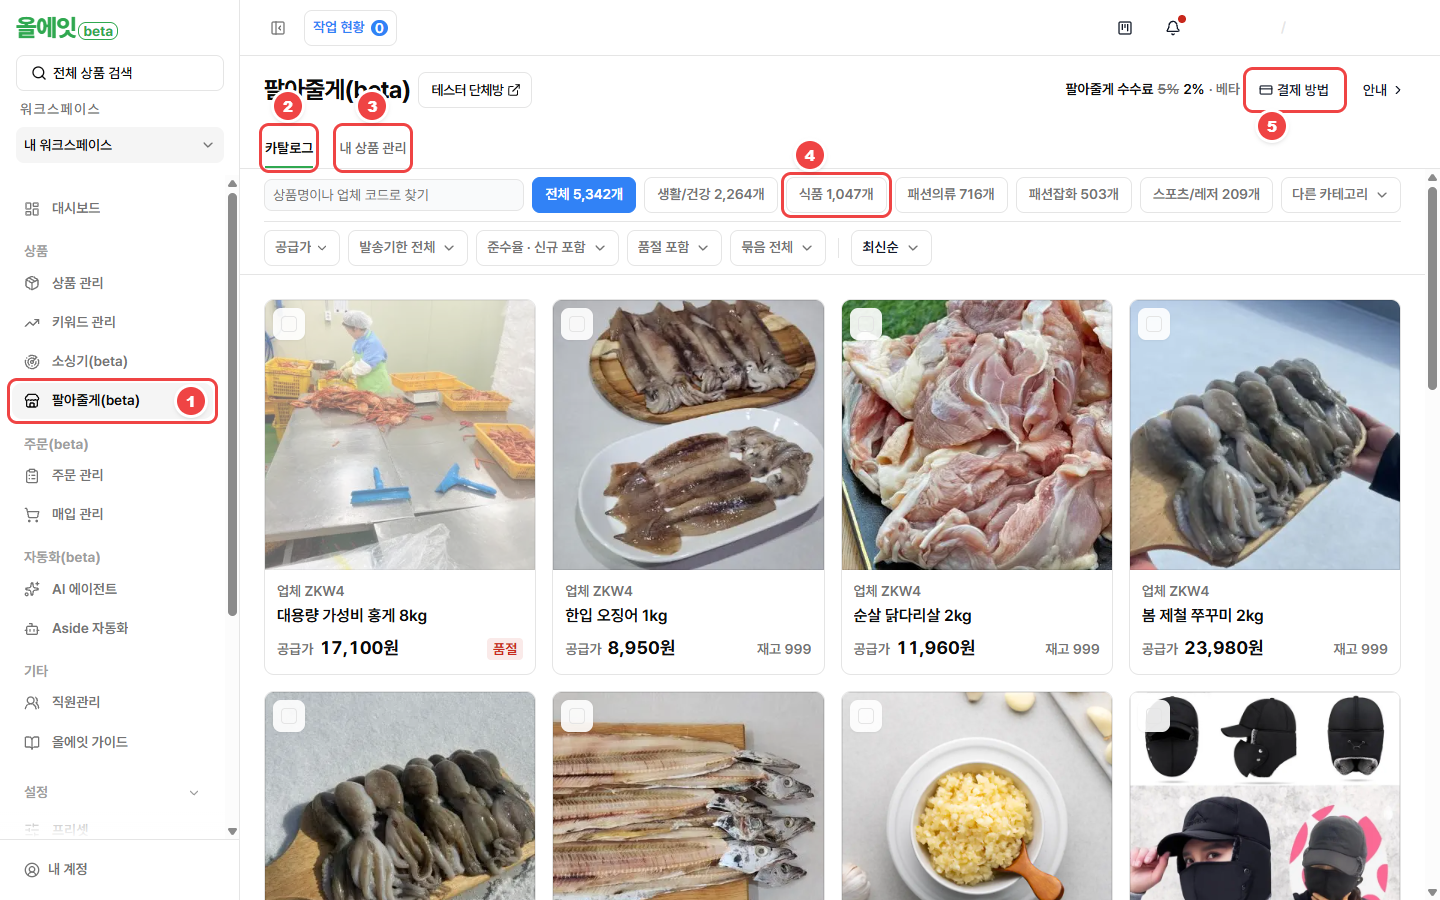
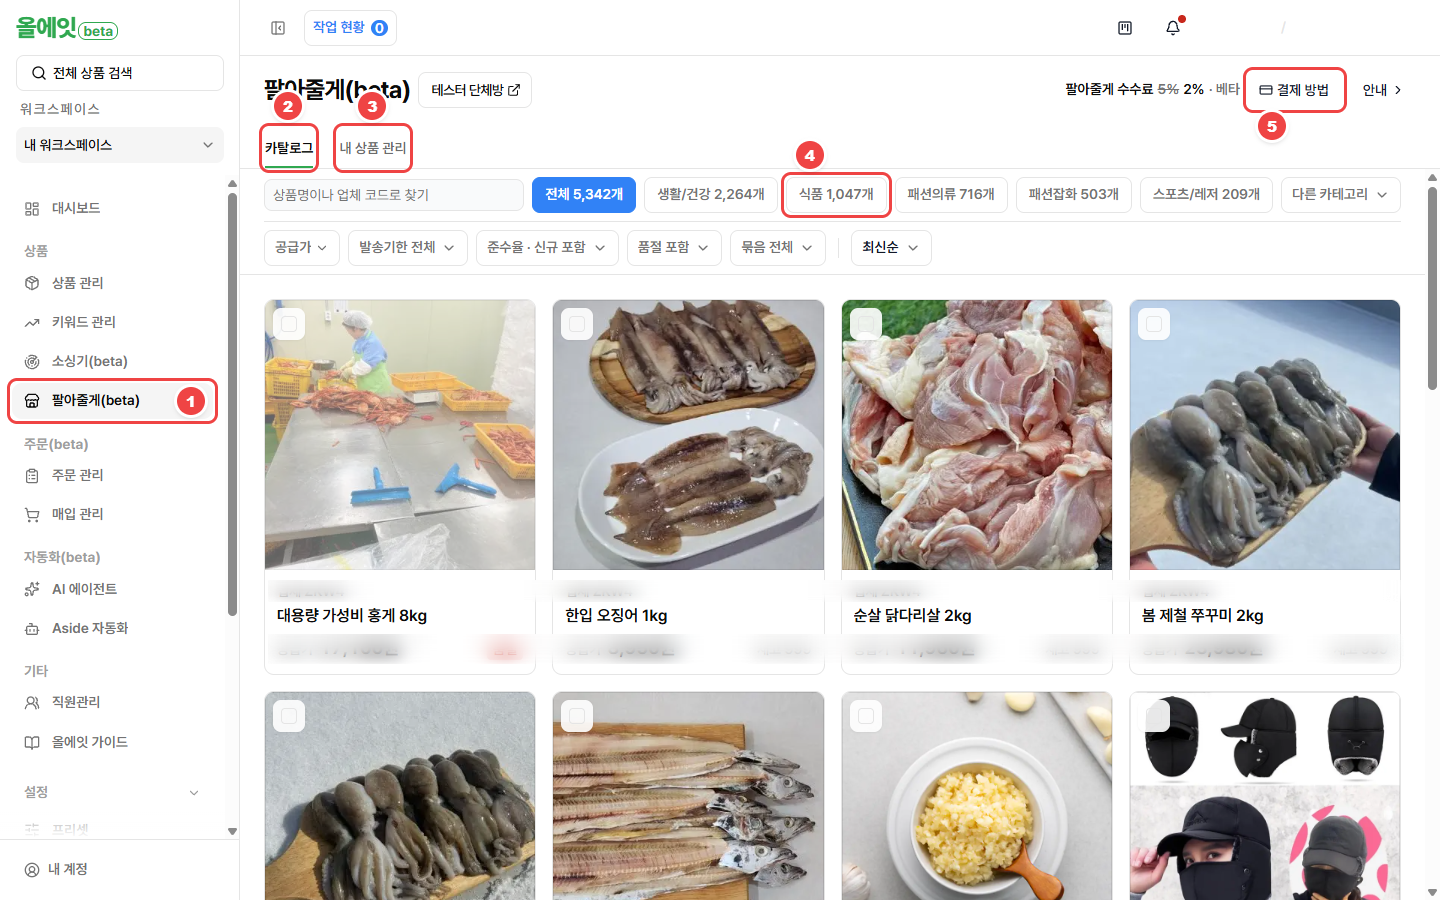
docs: 라쿠텐 랭킹 수집 체크박스 캡처 추가, 상품 관리·팔아줄게 캡처의 가격 칸 가림

diff --git a/manual.html b/manual.html
@@ -3371,7 +3371,8 @@ mark{background:#fef08a;color:var(--ink);border-radius:3px;padding:0 2px;}
         <h4>🆕 수집기에 새로 생긴 것 세 가지</h4>
         <div class="upd-sub">2026년 10월 수집기 업데이트 기준 · 수집기를 최신으로 업데이트해야 보여요</div>
         <p>목록 화면에서 한꺼번에 고를 때 쓰는 기능들이에요.</p>
-        <ol class="upd-steps">
+        <figure class="upd-fig"><img src="img/upd-collect-rakuten.png" alt="라쿠텐 랭킹의 수집 체크박스" loading="lazy" onclick="openLightbox(this.src)"><figcaption>라쿠텐 랭킹 화면. 1 상품 사진 위에 수집 체크박스가 나와요 (누르면 크게 보여요)</figcaption></figure>
+<ol class="upd-steps">
           <li><b class="n">1</b><span><strong>상품 체크박스 숨기기 / 보이기</strong>. 목록 화면의 상품 사진 위에 수집 체크박스가 뜨는데, 사진이 가려 보이지 않을 때가 있죠? 수집기 패널의 <strong>현재 페이지</strong> 칸에 눈 모양 버튼이 있어요. "상품 체크박스 숨기기"를 누르면 체크박스가 가려지고, "상품 체크박스 보이기"를 누르면 다시 나와요. 숨겨도 이미 고른 상품은 그대로 유지돼요. 숨김은 지금 보는 이 페이지에만 적용돼요. 다른 페이지로 가거나 브라우저 탭을 바꾸면 다시 보여요.</span></li>
           <li><b class="n">2</b><span><strong>라쿠텐 랭킹 페이지</strong>. 라쿠텐 랭킹 홈과 카테고리 목록에서도 상품 썸네일 위에 수집 체크박스가 나와요. 늦게 뜨는 상품도 고를 수 있어요. 다른 목록에서 하던 것처럼 여러 개를 골라 한 번에 담으세요.</span></li>
           <li><b class="n">3</b><span><strong>상세 이미지 복구</strong>. 수집하고 나면 일부 상세 이미지가 원본 오류로 빠지는 일이 있어요. 상품 편집 화면의 상세 설명 위에 "수집처 상세 이미지 N장이 원본 오류로 제외되었습니다."라는 안내가 뜨면, 그 아래 노란 상자에 <strong>복구 가능한 상세 이미지 N장이 있습니다.</strong>라고 나와요. <span class="btn">상세 이미지 복구</span>를 누르면 수집기가 이미지를 다시 가져와요. 이미지 주소에 접근하려면 사이트 접근 허용이 필요할 수 있어요. 새 창이 열리면 <span class="btn">사이트 접근 허용</span>을 누른 뒤, 상품 화면에서 다시 시도하세요. 상품에 저장 안 된 편집 내용이 있으면 먼저 저장해야 해요.</span></li>
